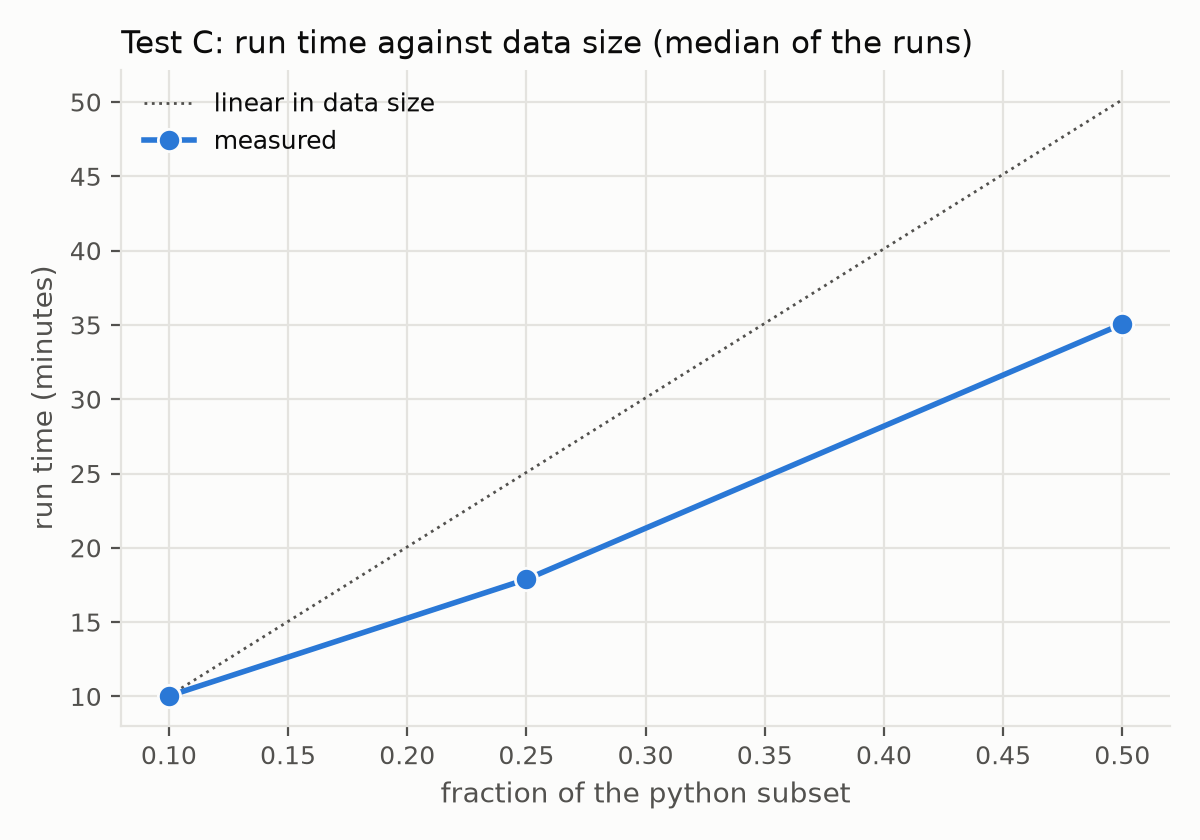
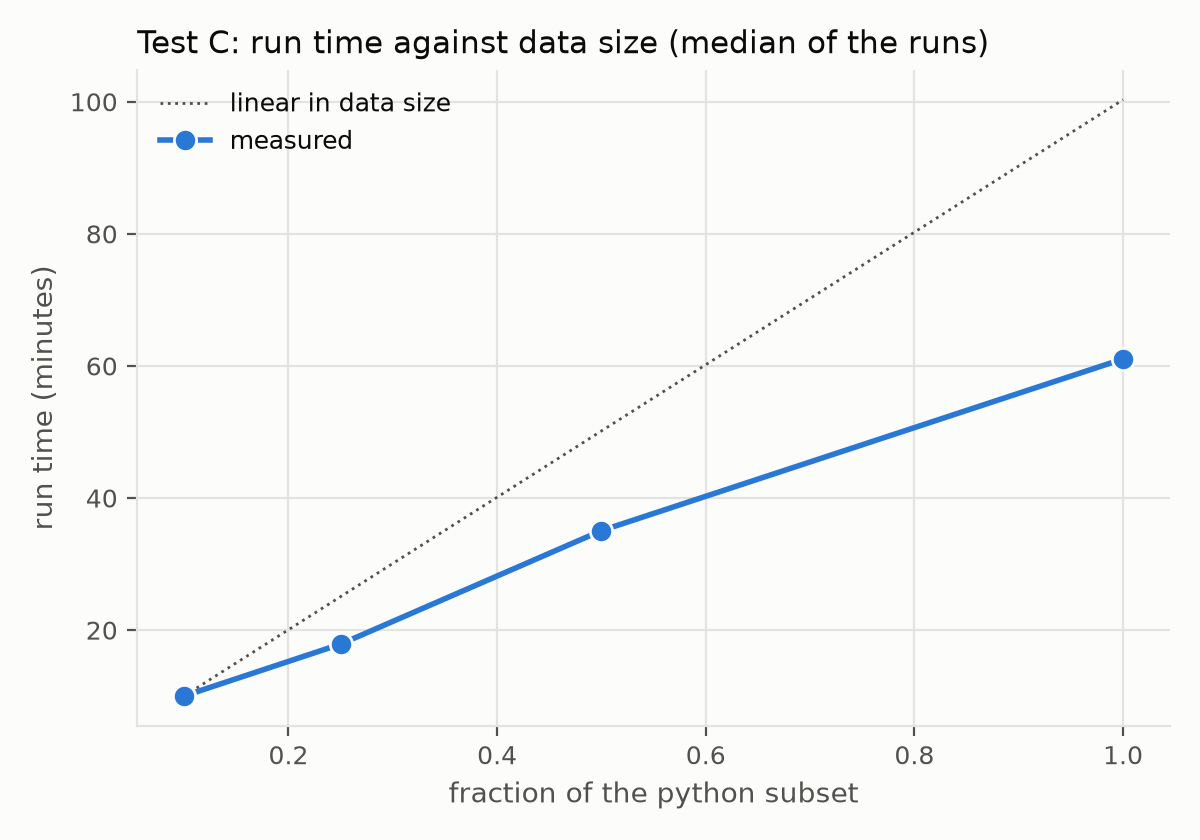
results(e8): add 100% Test C runs and complete data-size scaling (Part of #43)

diff --git a/results/e8_scaling/analysis/README.md b/results/e8_scaling/analysis/README.md
@@ -20,12 +20,13 @@ Reproduce the tables and plots with `python -m src.scaling.analyze`.
 | 0.10 | 601.9 | 91.5 | 1.65 | 11.56 |
 | 0.25 | 1073.1 | 194.5 | 3.43 | 28.14 |
 | 0.50 | 2103.9 | 330.0 | 4.58 | 56.72 |
+| 1.00 | 3663.7 | 566.0 | 5.35 | 115.94 |
 
 ![Run time against data size](data_size.png)
 
 ## What limits the speedup
 
-On one laptop, 2, 4 and 8 cores give speedups of 1.69, 2.92 and 3.47, so efficiency falls from 84% to 43% and going from 4 to 8 cores shortens the run by only 16%. An Amdahl fit gives a serial share of 0.16 (a ceiling of about 6×), but the fit is rough, with 2.68 predicted against 2.92 measured at 4 cores and 3.73 against 3.47 at 8, so read the share as a summary of all overheads and not as code that runs on one core. Three stages (12, 15 and 17 in `stages.csv`) take 88 to 92% of the run time and speed up 3.4 to 3.9 times from 1 to 8 cores. The median task slows from 1.54 s on 1 core to 2.44 s on 8, which suggests that tasks running side by side compete for a shared resource, although the table cannot say whether that is memory, disk or CPU. Long tasks also limit what more cores can do: the longest single task took 196 s at 8 cores, 19% of the run, and extra cores cannot shorten a task. The shuffle written stays at 28.0 GB in every setting, so all settings do the same amount of shuffle work, but how much of it crosses the network in the two-laptop runs is not recorded. With input on HDFS in both cases, the two laptops at 8+8 finished in 16.0 minutes against 32.2 on Laptop A alone (2.01 times faster), while going from 4+4 to 8+8 gained only 1.20 times. The 4+4 and 8+8 runs have 7 and 10 stages that take at least 5 s but under 2 s on 8 cores of Laptop B alone, adding about 88 s and 117 s (8% and 12% of the run); Laptop A alone has one such stage, and the cause of these pauses is not established. The `B:8` rows are copies of the 8-core test A runs, which read local files instead of HDFS, so they should not be compared with the other test B settings to judge the second machine. For data-size scaling (test C on `8+8`, `runs_data_scaling.csv`), moving from 10% to 25% and 50% of the python subset scales near-linearly: median runtime grows from 601.9 s to 1073.1 s (`1.78×`) and 2103.9 s (`1.96×` from 25%, `3.50×` overall), while shuffle written grows from 11.56 GB to 28.14 GB (`2.43×`) and 56.72 GB (`2.02×` from 25%, `4.91×` overall). A 100% run (`e8_C_8+8_1_run1`) was also attempted but stalled on the final task (`199/200`) of stage 17 after spilling 339.8 GB from memory and 147.4 GB to disk under `4g` executor memory, so test C covers `0.10`, `0.25`, and `0.50` (#43).
+On one laptop, 2, 4 and 8 cores give speedups of 1.69, 2.92 and 3.47, so efficiency falls from 84% to 43% and going from 4 to 8 cores shortens the run by only 16%. An Amdahl fit gives a serial share of 0.16 (a ceiling of about 6×), but the fit is rough, with 2.68 predicted against 2.92 measured at 4 cores and 3.73 against 3.47 at 8, so read the share as a summary of all overheads and not as code that runs on one core. Three stages (12, 15 and 17 in `stages.csv`) take 88 to 92% of the run time and speed up 3.4 to 3.9 times from 1 to 8 cores. The median task slows from 1.54 s on 1 core to 2.44 s on 8, which suggests that tasks running side by side compete for a shared resource, although the table cannot say whether that is memory, disk or CPU. Long tasks also limit what more cores can do: the longest single task took 196 s at 8 cores, 19% of the run, and extra cores cannot shorten a task. The shuffle written stays at 28.0 GB in every setting, so all settings do the same amount of shuffle work, but how much of it crosses the network in the two-laptop runs is not recorded. With input on HDFS in both cases, the two laptops at 8+8 finished in 16.0 minutes against 32.2 on Laptop A alone (2.01 times faster), while going from 4+4 to 8+8 gained only 1.20 times. The 4+4 and 8+8 runs have 7 and 10 stages that take at least 5 s but under 2 s on 8 cores of Laptop B alone, adding about 88 s and 117 s (8% and 12% of the run); Laptop A alone has one such stage, and the cause of these pauses is not established. The `B:8` rows are copies of the 8-core test A runs, which read local files instead of HDFS, so they should not be compared with the other test B settings to judge the second machine. For data-size scaling (test C on `8+8`, `runs_data_scaling.csv`), moving across 10%, 25%, 50%, and 100% of the python subset (`10×` data) increases median runtime from 601.9 s to 1073.1 s (`1.78×`), 2103.9 s (`3.50×`), and 3663.7 s (`6.09×`), while shuffle written scales linearly (`10.03×`: 11.56 GB → 28.14 GB → 56.72 GB → 115.94 GB). Note that the `1.00` runs were executed after restarting both laptops with `spark.speculation true` (see `docs/e8_runbook.md`, #43).
 
 ## Files
 

diff --git a/docs/e8_runbook.md b/docs/e8_runbook.md
@@ -54,6 +54,7 @@ Core-count (**Test A**) and second-machine (**Test B**) scaling runs on the 25% 
 - `app-20261122044346-0000` (initial `A, 1, 0.25, run 1` on Laptop B): aborted after ~1 h (`04:43`–`05:44 UTC`) when Ubuntu unattended-upgrades updated `openjdk-17` (`17.0.21.0.3` → `17.0.21.1+2`) mid-run, causing a `jspawnhelper` version mismatch. Spark Master/Worker were restarted on `17.0.21.1+2` and all 12 Test A runs were then executed cleanly from scratch.
 - `app-20261127092017-0001` (`C, 8+8, 0.1, run 2`): took `25.3 min` (`153%` above the `10.0 min` median, failing the `25%` variance check). Replaced with `app-20261127204002-0010` (`11.8 min`, `710,307 ms`), recorded as `run 2` in `results/e8_scaling/runs_data_scaling.csv`.
 - `app-20261127124046-0009` (`C, 8+8, 1, run 1`): stalled on the final task (`199/200`, partition `43`) of stage 17 after `339.8 GB` memory spill and `147.4 GB` disk spill (`exec=1` `gcMs` and `diskSpillMB` frozen for 5+ hours); stopped and excluded from `runs_data_scaling.csv`.
+- `app-20261128093808-0002` (`C, 8+8, 1, run 3` overnight): application finished in `71.2 min`, but Laptop B's host disk (`E:`) ran out of space at start (`09:38 UTC`), leaving only a `58 B` `.inprogress` event log. After freeing space and restarting, `app-20261128151506-0003` (`59.2 min`, `3,549,278 ms`) was run as the replacement `run 3`. All three `1.0` runs (`app-20261128072320-0000`, `app-20261128082438-0001`, `app-20261128151506-0003`) were run with `spark.speculation true` on Laptop A.
 
 ## Validation
 

diff --git a/docs/checkpoint.md b/docs/checkpoint.md
@@ -24,7 +24,7 @@ repository shows them; the others are marked *not decided*.
 | TF-IDF re-ranking | #40 | **Done** | Issue closed as completed; [tfidf_comparison.csv](../results/e4_verification/tfidf_comparison.csv) |
 | SON tag blocking | #16, #17 | **Done** | Both issues closed as completed; [e6_blocking](../results/e6_blocking/README.md) |
 | Bucket splitting at full size | #41 | **Cut** (as the WS3 report states) | The cluster time went to the core E6 and E7 runs. The code and its tests are in `src/verification/`. #41 is still open |
-| Data-size scaling (test C) | #43 | **Partly complete** (`0.1`, `0.25`, `0.5`; `1.0` stalled) | 3 runs each at `0.1`, `0.25`, `0.5` on `8+8` in [runs_data_scaling.csv](../results/e8_scaling/runs_data_scaling.csv); `1.0` stalled at `199/200` in stage 17 (`147.4 GB` disk spill under `4g` executor memory) |
+| Data-size scaling (test C) | #43 | **Done** (`0.1`, `0.25`, `0.5`, `1.0`) | 3 runs each at all four fractions on `8+8` in [runs_data_scaling.csv](../results/e8_scaling/runs_data_scaling.csv) (`1.0` run with `spark.speculation true`; see [e8_runbook.md](e8_runbook.md)) |
 | Run on all of Stack Overflow | #43 | *Not decided* | No recorded run. The proposal lists it as stretch and first to cut. (The dataset profile of all of Stack Overflow is a different job and is done) |
 
 ## To close #14
